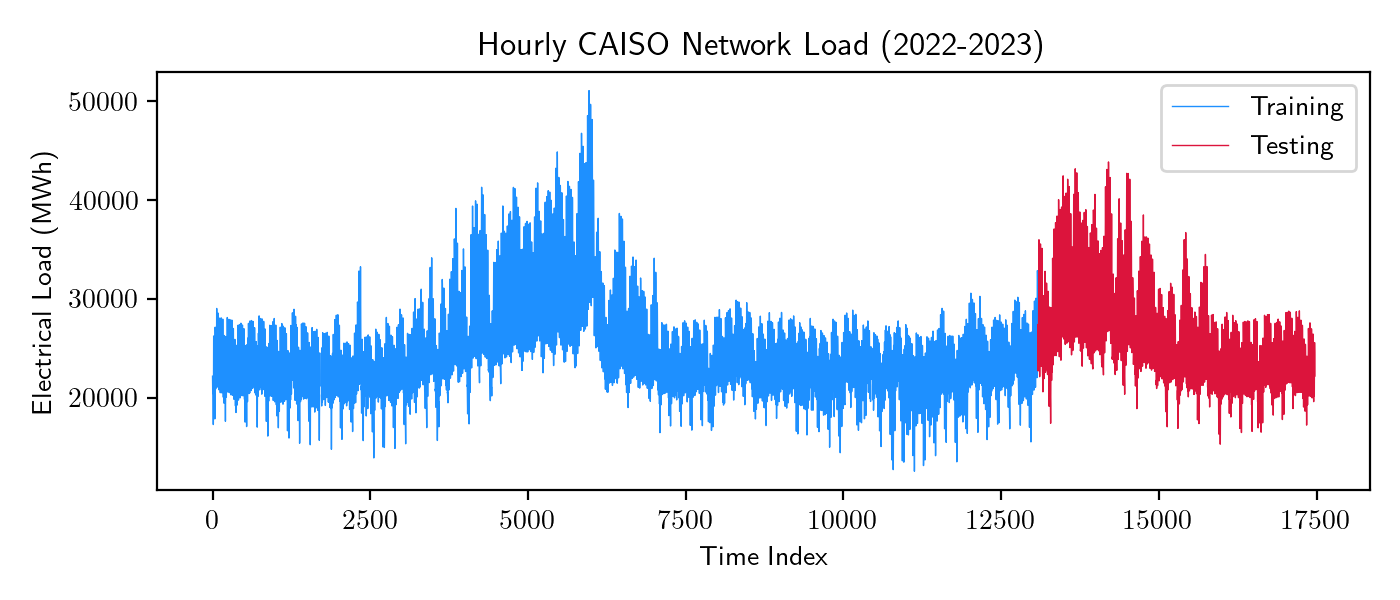
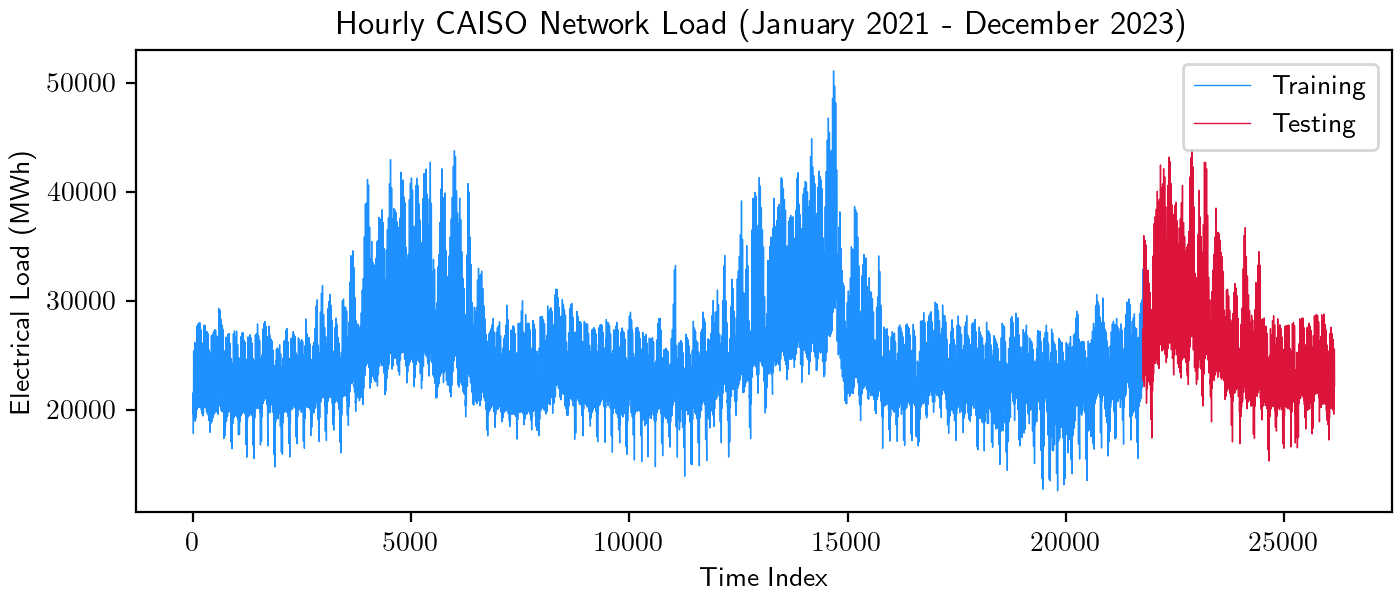
added economic dispatch model

Changed region(s): [[0.0, 0.0, 1.0, 0.99]]

diff --git a/src/model.py b/src/model.py
@@ -1,0 +1,91 @@
+import numpy as np
+import pandas as pd
+import cvxpy as cp
+import matplotlib.pyplot as plt
+import json
+
+
+class Generator:
+    def __init__(self, specifications: dict):
+
+        self.name = specifications["name"]
+
+        self.alpha = specifications["alpha"]
+        self.beta = specifications["beta"]
+        self.gamma = specifications["gamma"]
+
+        self.max_power = specifications["max_power"]
+        self.min_power = specifications["min_power"]
+
+        self.ramp_rate = specifications["ramp_rate"]
+
+    def compute_cost(self, power: cp.Variable):
+
+        cost = self.alpha * cp.power(power[0], 2) + self.beta * (power) + self.gamma
+
+        return cost.sum()
+
+
+class EconomicDispatchModel:
+    def __init__(self, generators: list[Generator], horizon: int):
+        self.generators = generators
+        self.num_generators = len(generators)
+
+        self.horizon = horizon
+
+        self.model = self.create_ed()
+
+    def create_ed(self):
+        # Parameters
+        self.d = cp.Parameter(self.horizon)
+
+        # Variables
+        self.g = cp.Variable((self.num_generators, self.horizon), nonneg=True)
+
+        # Objetive function
+        objective = 0
+
+        for index, generator in enumerate(self.generators):
+            for t in range(self.horizon):
+                objective += (
+                    generator.alpha * cp.power(self.g[index, t], 2)
+                    + generator.beta * (self.g[index, t])
+                    + generator.gamma
+                )
+
+        # Constraints
+        constraints = []
+
+        # Constraint 1 (Conservation of energy):
+        for t in range(self.horizon):
+            constraints.append(self.g[:, t].sum() == self.d[t])
+
+        # Constraint 2 (Maximum and minimum power constraints):
+        for index, generator in enumerate(self.generators):
+            constraints.append(self.g[index, :] <= generator.max_power)
+            constraints.append(self.g[index, :] >= generator.min_power)
+
+        # Constraint 3 (Maximum and minimum ramp rates):
+        for index, generator in enumerate(self.generators):
+            for t in range(1, self.horizon):
+                constraints.append(
+                    cp.abs(self.g[index, t] - self.g[index, t - 1])
+                    <= generator.ramp_rate
+                )
+
+        model = cp.Problem(cp.Minimize(objective), constraints)
+
+        return model
+
+    def solve_ed(self, demand: np.ndarray):
+
+        self.d.value = demand
+
+        return self.model.solve()
+
+
+if __name__ == "__main__":
+
+    power_system_specs = json.load(open("data/system.json"))
+
+    generators = [Generator(specification) for specification in power_system_specs]

diff --git a/src/visualization.py b/src/visualization.py
@@ -1,13 +1,15 @@
 import numpy as np
 import pandas as pd
 import matplotlib.pyplot as plt
-import matplotlib.dates as mdates
+import json
+
+from model import EconomicDispatchModel, Generator
 
 
 plt.rcParams["text.usetex"] = True
 
 
-def plot_caiso_sample(train_dir: str, test_dir: str):
+def visualize_caiso_sample(train_dir: str, test_dir: str):
     """Plots a sample of the hourly electrical load of the CAISO network.
 
     Args:
@@ -21,7 +23,7 @@ def plot_caiso_sample(train_dir: str, test_dir: str):
     train_time_series = train_df["Load"]
     test_time_series = test_df["Load"]
 
-    plt.figure(figsize=(7, 3), dpi=200)
+    plt.figure(figsize=(7, 3), dpi=200, layout="constrained")
 
     plt.plot(
         range(len(train_time_series)),
@@ -38,17 +40,57 @@ def plot_caiso_sample(train_dir: str, test_dir: str):
         label="Testing",
     )
 
-    plt.title("Hourly CAISO Network Load (2022-2023)")
-    plt.ylabel("Electrical Load (MWh)")
+    plt.title("Hourly CAISO Network Load (January 2021 - December 2023)")
     plt.xlabel("Time Index")
+    plt.ylabel("Electrical Load (MWh)")
     plt.legend()
-    plt.tight_layout()
     plt.savefig("figures/sample_caiso_load.png")
+
+
+def visualize_ed_schedule(model: EconomicDispatchModel):
+    """Plots the hourly electrical generation schedule.
+
+    Args:
+        model (EconomicDispatchModel): economic dispatch model object.
+    """
+
+    generation = model.g.value
+    demand = model.d.value
+
+    m, n = generation.shape
+
+    labels = [f"Generator {index + 1}" for index in range(n)]
+
+    plt.figure(figsize=(7, 3), dpi=200, layout="constrained")
+
+    plt.stackplot(range(n), generation, labels=labels)
+    plt.plot(range(n), demand, linestyle="--", c="k", label="Demand")
+
+    plt.title("Hourly Generator Schedule")
+    plt.xlabel("Time (Hour)")
+    plt.ylabel("Electricity Generation (MWh)")
+    plt.legend(ncol=2)
+    plt.savefig("figures/sample_ed_schedule.png")
 
 
 if __name__ == "__main__":
 
+    # Plot a sample of the CAISO data
     train_dir = "data/caiso_train.csv"
     test_dir = "data/caiso_test.csv"
 
-    plot_caiso_sample(train_dir, test_dir)
+    visualize_caiso_sample(train_dir, test_dir)
+
+    # Plot a sample electricity generation schedule
+    power_system_specs = json.load(open("data/system.json"))
+    generators = [Generator(specification) for specification in power_system_specs]
+
+    model = EconomicDispatchModel(generators=generators, horizon=24)
+
+    i = 100
+    df = pd.read_csv("data/caiso_train.csv")
+    load = (df["Load"][i : (i + 24)] * 0.08).to_numpy()
+
+    model.solve_ed(demand=load)
+
+    visualize_ed_schedule(model)
